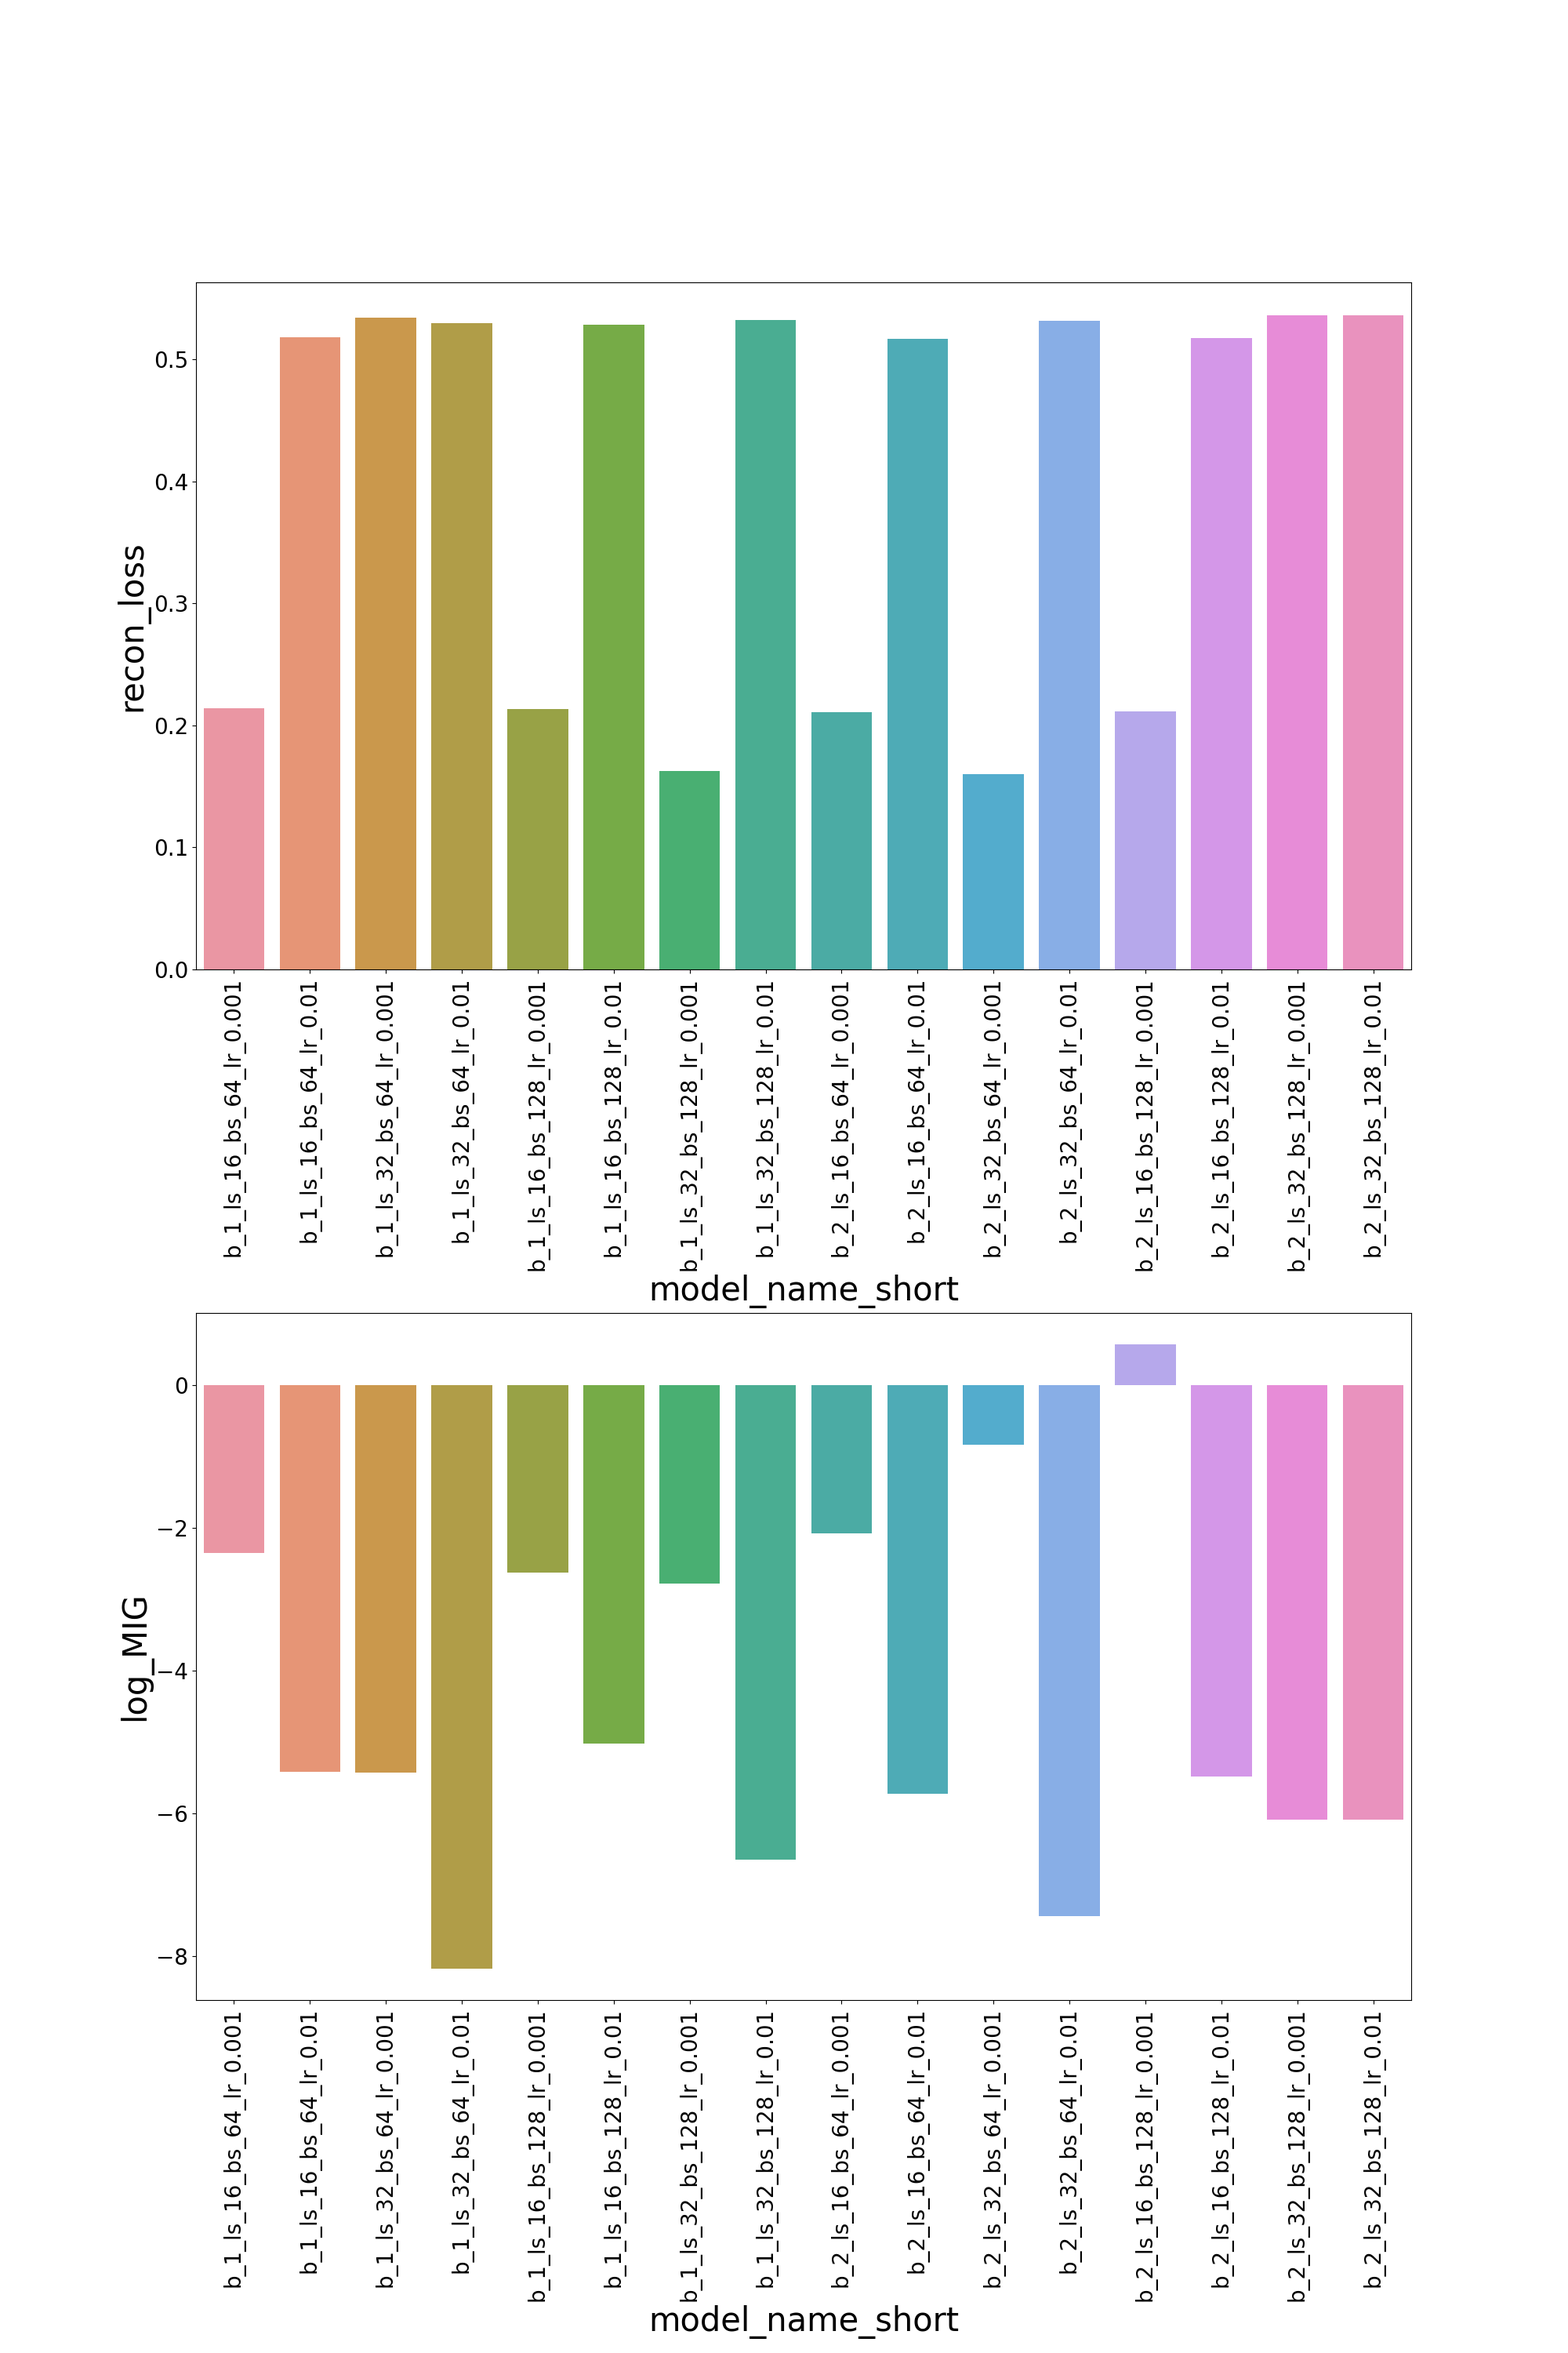
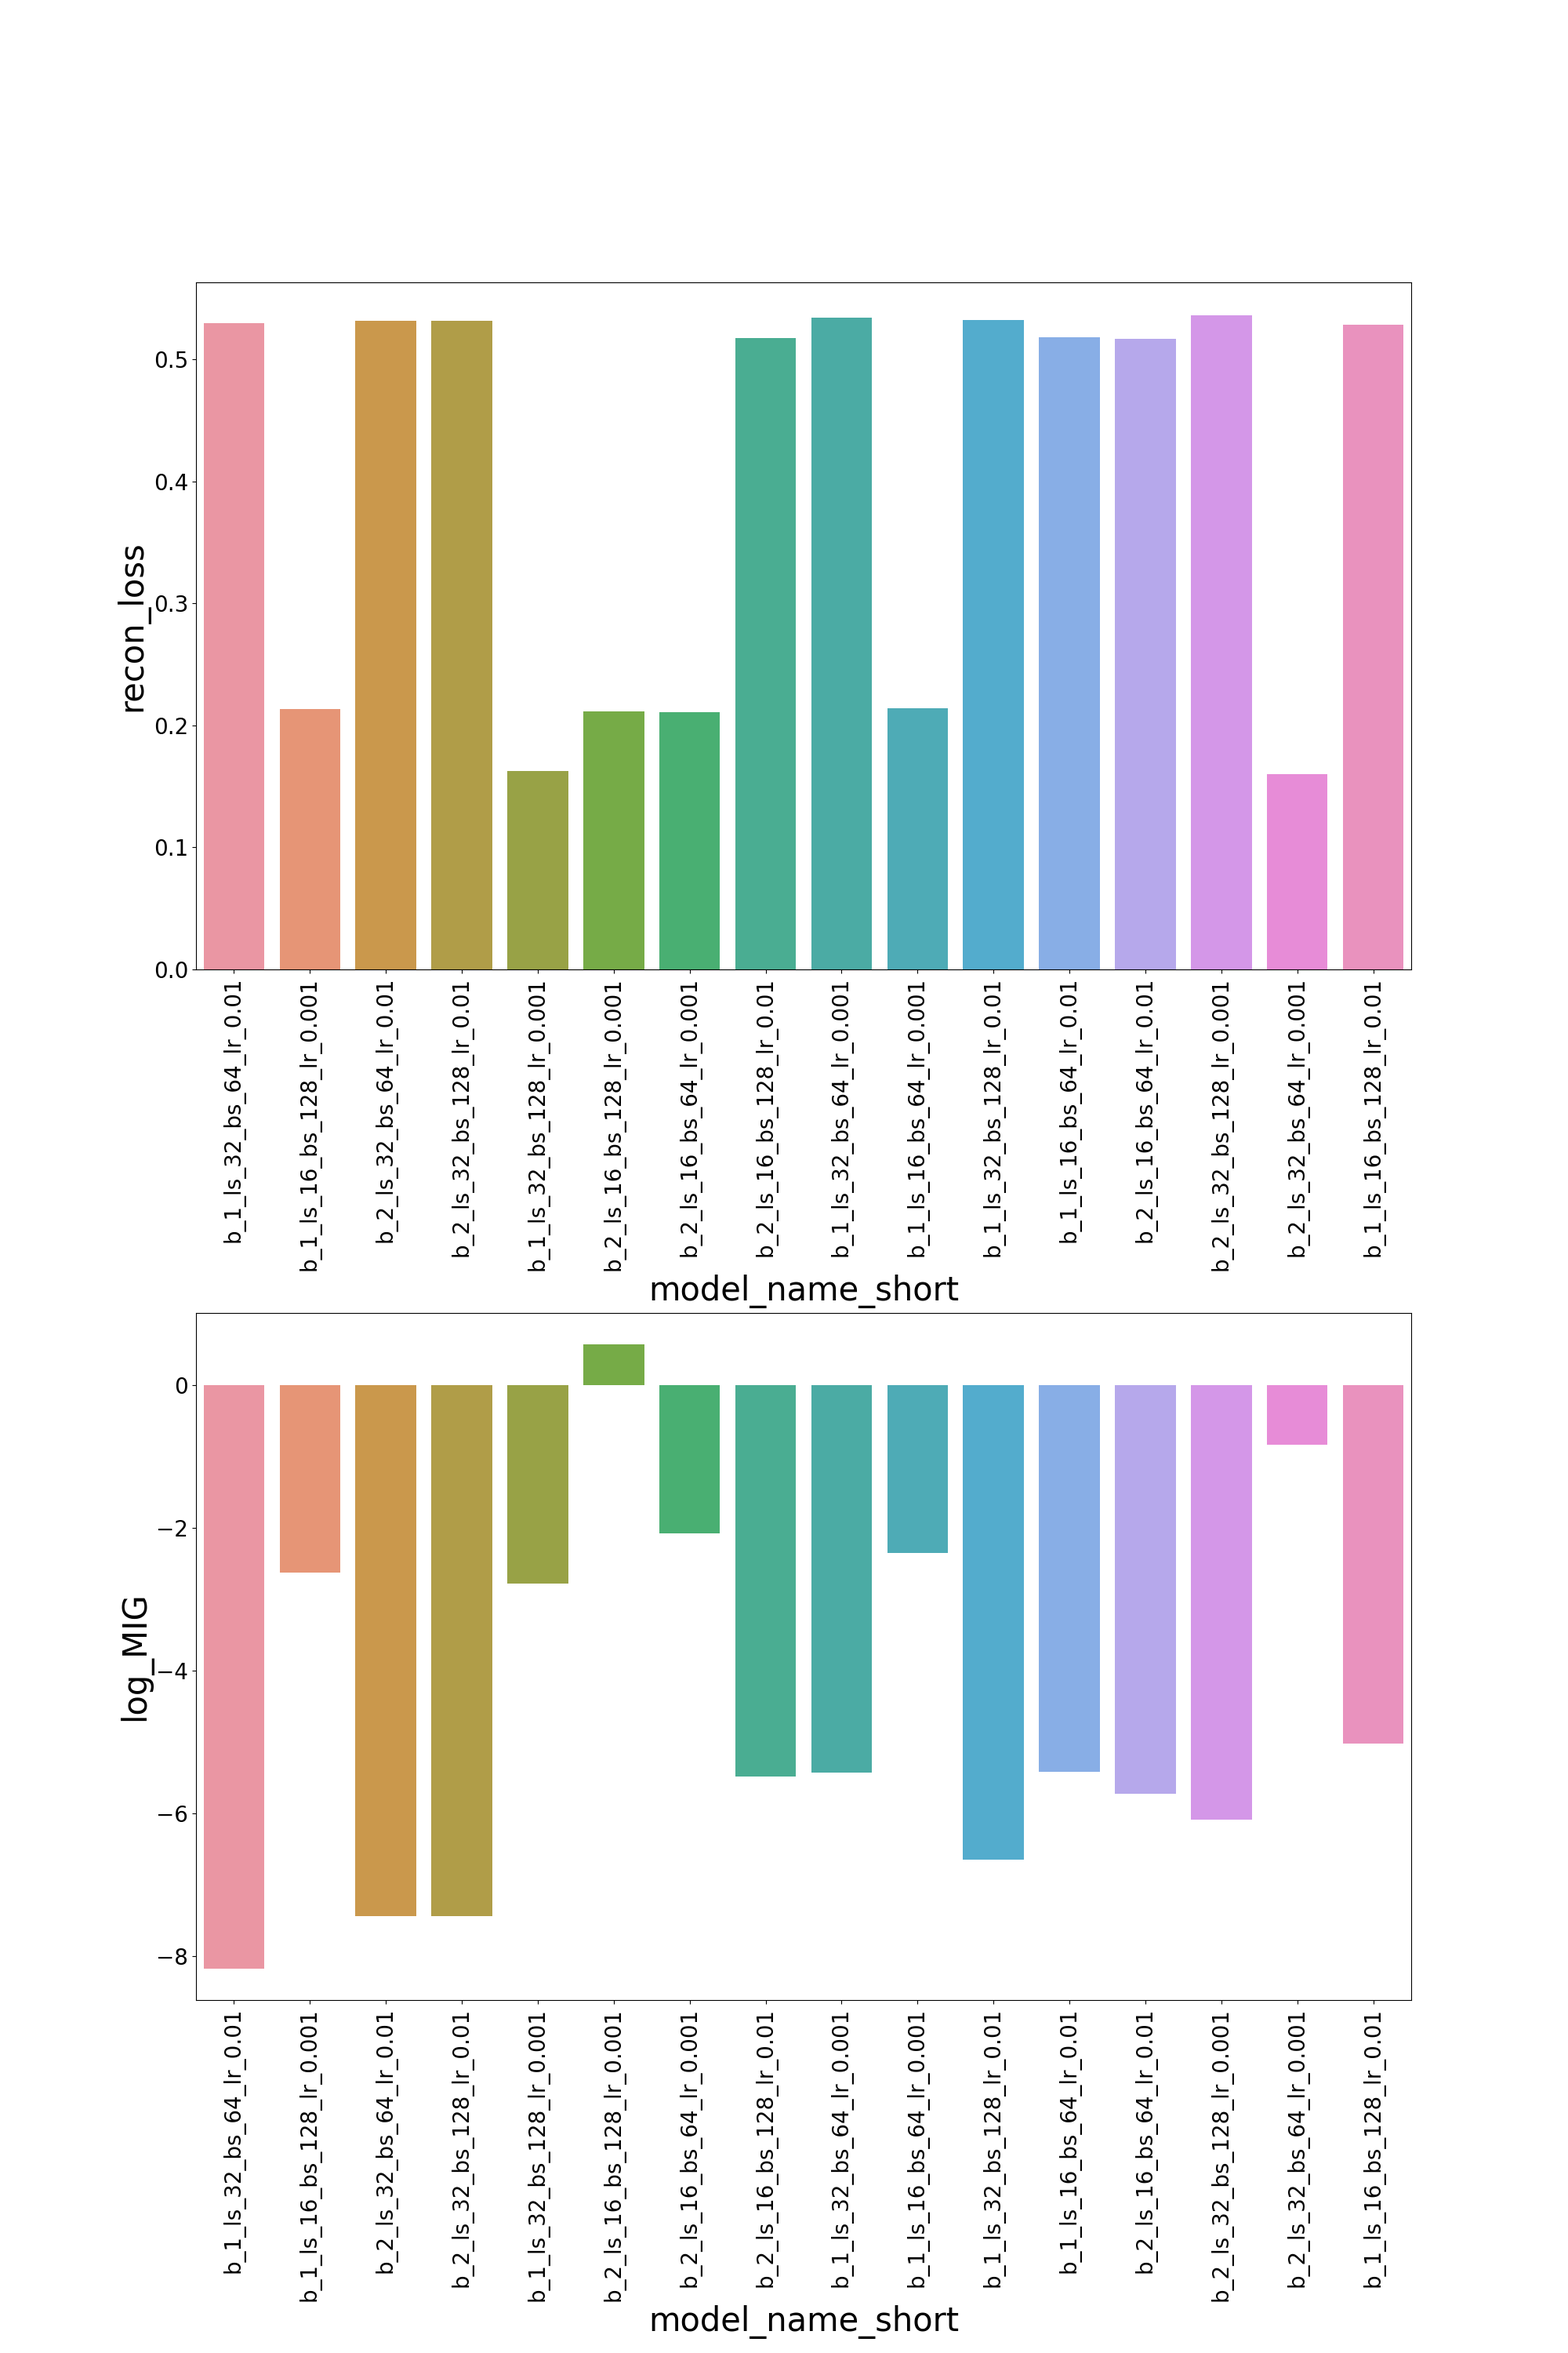
adjust plotting for all existing trained models

diff --git a/analysis/plot_grid_search.py b/analysis/plot_grid_search.py
@@ -1,4 +1,5 @@
 import os
+import glob
 import pickle
 import itertools
 import pandas as pd
@@ -6,22 +7,22 @@ import numpy as np
 import seaborn as sns
 import matplotlib.pyplot as plt
 
-# HYPERPARAMS
-BETAS='1 2'.split()
-BATCH_SIZES='64 128'.split()
-LATENT_SIZES='16 32'.split()
-LEARNING_RATES='0.001 0.01'.split()
+# PLOT RESULTS FOR ALL MODELS STARTING WITH THE FOLLOWING NAME
+model_and_data_type = 'betaB_dletters'
 
 # PATHS
 path2logs = os.path.join('..', 'results')
 path2output = os.path.join('..', 'results')
 path2figures = os.path.join('..', 'figures')
 
+dirnames = glob.glob(os.path.join(path2logs, model_and_data_type + '*/'))
+
 df = pd.DataFrame()
-for beta, batch_size, latent_size, learning_rate in \
-        list(itertools.product(BETAS, BATCH_SIZES,
-                               LATENT_SIZES, LEARNING_RATES)):
-    model_name = f'betaB_dletters_beta_{beta}_latent_size_{latent_size}_batch_size_{batch_size}_learning_rate_{learning_rate}'
+for dirname in dirnames:
+    model_name = os.path.basename(os.path.normpath(dirname))
+    s = model_name[len(model_and_data_type)+1:]
+    print(s.split('_'))
+    _, beta, _, _, latent_size, _, _, batch_size, _, _, learning_rate = s.split('_')
     fn_log = 'eval.pkl'
     fn_log = os.path.join(path2logs, model_name, fn_log)
     print(f'Loading {fn_log}')
